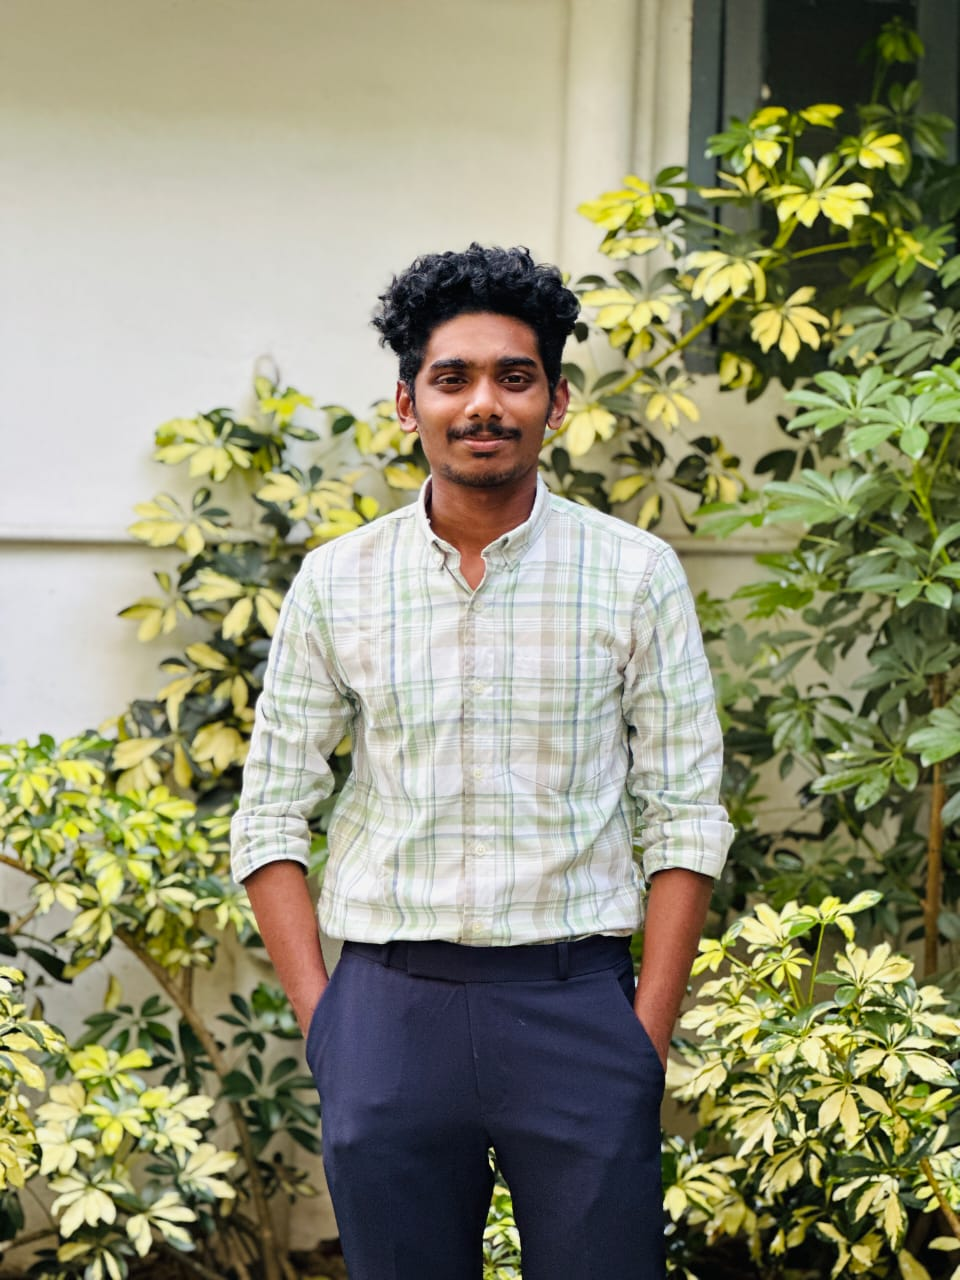
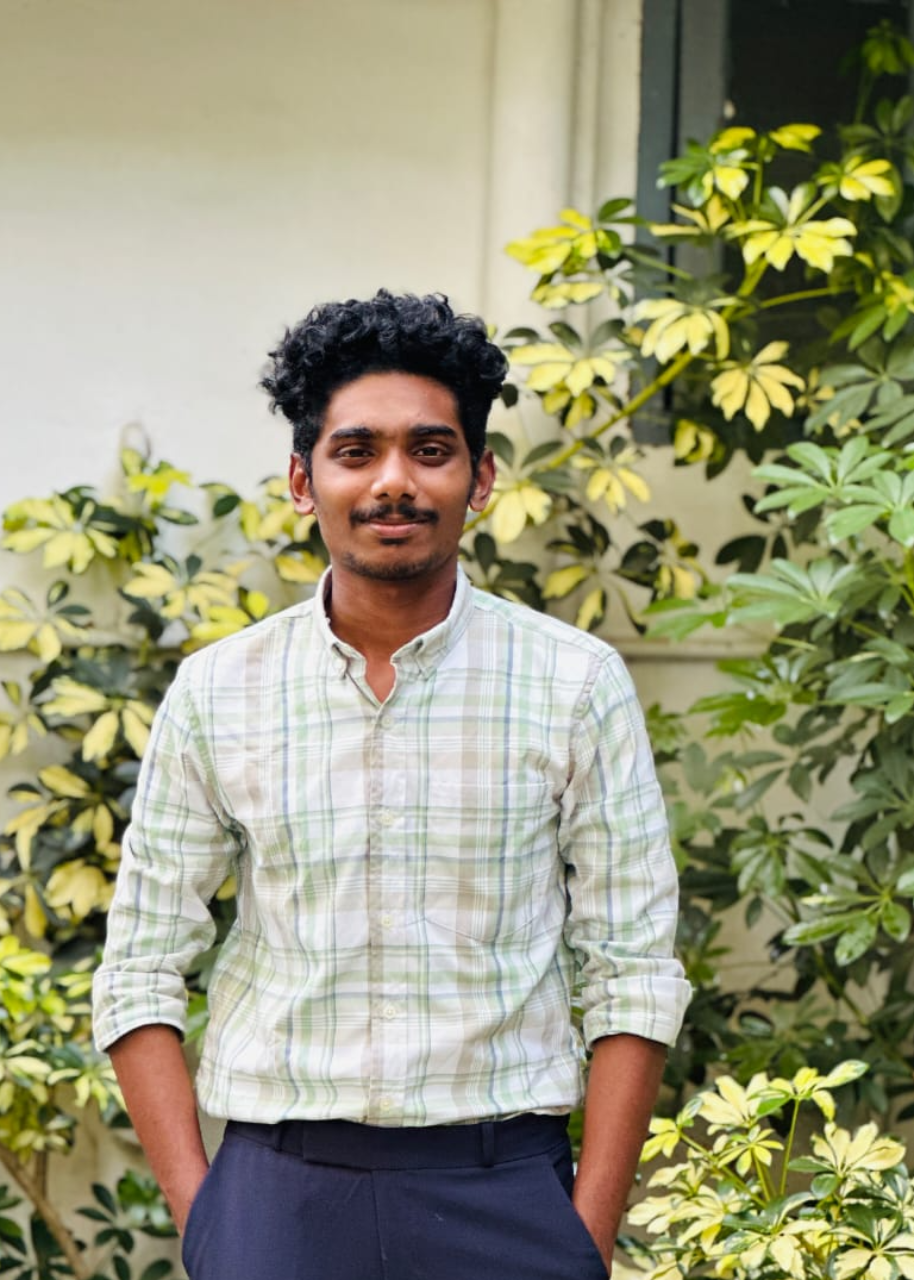
react-cropper added when profile edit

diff --git a/Frondend/src/Components/Doctor/DoctorProfile/profileedit.jsx b/Frondend/src/Components/Doctor/DoctorProfile/profileedit.jsx
@@ -6,11 +6,16 @@ import { faXmark } from "@fortawesome/free-solid-svg-icons";
 import { toast } from "sonner";
 import { profileEditDoctor } from "../../../Redux/Doctor/DoctorThunk";
 import { useDispatch, useSelector } from "react-redux";
+import { ImageCropper } from "../..";
+
 
 const Profileedit = ({ closeModal, doctorId }) => {
   const dispatch = useDispatch();
   const { doctorData } = useSelector((state) => state.doctor);
   const [profile, setProfile] = useState(false);
+
+
+
   const formik = useFormik({
     initialValues: {
       doctorname: doctorData.drname || "",
@@ -20,21 +25,16 @@ const Profileedit = ({ closeModal, doctorId }) => {
       doctorlocation: doctorData.location || "",
       doctorexperience: doctorData.experience || "",
       doctordescription: doctorData.about || "",
-      doctorprofile: doctorData.profileimage || null,
+      doctorprofile: null,
     },
     validationSchema: validationEditProfileSchema,
     onSubmit: async (values) => {
-      console.log("values", values);
       const formData = new FormData();
-      // if(profile){
       Object.keys(values).forEach((key) => {
         formData.append(key, values[key]);
       });
-      // }
       formData.append("doctorId", doctorId);
-      console.log("here is the formdata", doctorId);
-
-      await dispatch(profileEditDoctor({ formData, doctorId, toast }))
+      await dispatch(profileEditDoctor({ formData, values, toast }))
         .unwrap()
         .then(() => {
           toast.success("Profile updated successfully");
@@ -46,16 +46,28 @@ const Profileedit = ({ closeModal, doctorId }) => {
   const handleProfile = (event) => {
     const file = event.target.files[0];
     if (file.type === "image/jpeg") {
+      setProfile(file)
       const reader = new FileReader();
       reader.onload = () => {
         setProfile(reader.result);
-        formik.setFieldValue("doctorprofile", file);
       };
       reader.readAsDataURL(file);
     } else {
       toast.error("JPG image only support");
     }
   };
+
+  const handleCropcomplete = (croppedimage,originalFile) => {
+    const byteString = atob(croppedimage.split(',')[1])
+    const mimeString = croppedimage.split(',')[0].split(':')[1].split(';')[0]
+    const ab = new ArrayBuffer(byteString.length)
+    const ia = new Uint8Array(ab)
+    for (let i = 0; i < byteString.length; i++) {
+      ia[i] = byteString.charCodeAt(i);
+    }
+    const file = new File([ab], originalFile, { type: mimeString });
+    formik.setFieldValue("doctorprofile", file);
+  }
 
   return (
     <div className="fixed inset-0 bg-black bg-opacity-50 flex justify-center items-center z-50">
@@ -197,17 +209,13 @@ const Profileedit = ({ closeModal, doctorId }) => {
             <div className="certicate flex justify-center items-center ">
               {profile && (
                 <>
+                  <ImageCropper image={profile} onCropComplete={handleCropcomplete}  originalFileName={profile.name}/>
                   <FontAwesomeIcon
                     icon={faXmark}
                     className="w-2 h-2 bg-slate-400 rounded-full p-2 absolute cursor-pointer "
                     onClick={() => setProfile(false)}
                   />
 
-                  <img
-                    src={profile}
-                    alt="profile"
-                    className="m-5 w-[24%] h-[6rem] object-cover rounded-sm shadow-lg "
-                  />
                 </>
               )}
             </div>

diff --git a/Frondend/src/Redux/Doctor/DoctorSlice.jsx b/Frondend/src/Redux/Doctor/DoctorSlice.jsx
@@ -13,32 +13,52 @@ const INITIAL_STATE = {
 const doctorSlice = createSlice({
   name: "doctor",
   initialState: INITIAL_STATE,
-  reducers:{
-    docorLogout:(state) => {
-        state.doctorData = null;
-        state.doctorToken = null;
-        sessionStorage.removeItem("doctorData");
-        sessionStorage.removeItem("doctor-token");  
-    }
+  reducers: {
+    docorLogout: (state) => {
+      state.doctorData = null;
+      state.doctorToken = null;
+      sessionStorage.removeItem("doctorData");
+      sessionStorage.removeItem("doctor-token");
+    },
   },
   extraReducers: (builder) => {
     builder
-    .addCase(doctorLogin.fulfilled, (state, action) => {
-      const { doctorData, doctorToken } = action.payload;
-      state.doctorData = doctorData
-      state.doctorToken = doctorToken
-      sessionStorage.setItem("doctorData",JSON.stringify(doctorData))
-      sessionStorage.setItem("doctor-token",JSON.stringify(doctorToken))
-    })
-     .addCase(profileEditDoctor.fulfilled,(state,action)=>{
-      const updateData = action.payload
-      state.doctorData = {...state.doctorData , ...updateData}
-      console.log("checking the state is updtated or not ",state.doctorData)
-      state.editConfirm = true;
-      sessionStorage.setItem("doctorData",JSON.stringify(state.doctorData))
-     }) 
+      .addCase(doctorLogin.fulfilled, (state, action) => {
+        const { doctorData, doctorToken } = action.payload;
+        state.doctorData = doctorData;
+        state.doctorToken = doctorToken;
+        sessionStorage.setItem("doctorData", JSON.stringify(doctorData));
+        sessionStorage.setItem("doctor-token", JSON.stringify(doctorToken));
+      })
+      .addCase(profileEditDoctor.fulfilled, (state, action) => {
+        const { 
+          doctorprofile, 
+          doctorname, 
+          doctormobile, 
+          doctorstate, 
+          doctorcountry, 
+          doctorlocation, 
+          doctorexperience, 
+          doctordescription 
+        } = action.payload;
+    
+        if (doctorprofile) {
+          state.doctorData.profileimage = doctorprofile.name
+        }
+        Object.assign(state.doctorData,{
+          drname: doctorname,
+          drMobile: doctormobile,
+          state: doctorstate,
+          country: doctorcountry,
+          location: doctorlocation,
+          experience: doctorexperience,
+          about: doctordescription
+        })
+        state.editConfirm = true;
+        sessionStorage.setItem("doctorData", JSON.stringify(state.doctorData));
+      });
   },
 });
 
 export default doctorSlice.reducer;
-export const {docorLogout} = doctorSlice.actions
+export const { docorLogout } = doctorSlice.actions;

diff --git a/Frondend/src/Components/Doctor/DoctorProfile/Doctorprofile.jsx b/Frondend/src/Components/Doctor/DoctorProfile/Doctorprofile.jsx
@@ -5,7 +5,8 @@ import { useSelector } from "react-redux";
 const Doctorprofile = () => {
   const { doctorData } = useSelector((state) => state.doctor);
   const [isEdit, setIsedit] = useState(false);
-  console.log("getiigggg==={}",doctorData)
+
+  console.log("getting the ",doctorData)
   return (
     <>
       <DoctorNavbar />
@@ -20,13 +21,13 @@ const Doctorprofile = () => {
             <img
               src={`../src/assets/images/${doctorData.profileimage}`}
               alt="doctorprofileimage"
-              className="border-2 border-[#0f766e] rounded-sm   sm:w-[40%]  sm:rounded-md object-contain"
+              className="border-2 border-[#0f766e] rounded-sm   sm:w-[40%]  sm:rounded-md "
             />
 
             <div className="flex flex-col">
-              <div className="bg-white  shadow-md m-3 w-[80%] sm:w-[124%] rounded-xl flex flex-col justify-center items-center p-3 sm:p-2">
+              <div className="bg-white  shadow-md m-3 w-[80%] sm:w-[124%] rounded-xl flex flex-col justify-center items-center p-3">
                 <div className="flex gap-1">
-                  <h1 className=" text-black font-bold">{doctorData.drname}</h1>
+                  <h1 className=" text-black font-bold">{doctorData?.drname}</h1>
                   <h1 className=" text-black font-bold">
                     {doctorData.drdegree}
                   </h1>

diff --git a/Frondend/src/Components/Commen/Cropper/Cropper.jsx b/Frondend/src/Components/Commen/Cropper/Cropper.jsx
@@ -1,0 +1,44 @@
+  import React, { useRef, useState } from "react";
+  import Cropper from "react-cropper";
+  import "cropperjs/dist/cropper.css";
+
+  const ImageCroper = ({image,onCropComplete,originalFileName }) => {
+    const cropRef = useRef(null);
+    const [croppedImage, setCroppedImage] = useState(false);
+
+    const onCrop = () => {
+      const cropper = cropRef.current?.cropper
+      if(cropper){
+          const cropUrl = cropper.getCroppedCanvas({
+              width: 960,
+              height: 1280
+          }).toDataURL()
+          setCroppedImage(cropUrl)
+          onCropComplete(cropUrl,originalFileName)
+      }
+    }
+
+    return (
+      <div className="flex">
+        <Cropper
+          src={image}
+          style={{ height: 200, width: "200%" }}
+          initialAspectRatio={3 / 4}
+          guides={false}
+          ref={cropRef}
+          crop={onCrop}
+        />
+        {croppedImage && (
+          <div className="flex justify-center items-center">
+            <img
+              src={croppedImage}
+              alt="Cropped"
+              className="m-1 w-[245%] h-[6rem] object-cover rounded-sm shadow-lg"
+            />
+          </div>
+        )}
+      </div>
+    );
+  };
+
+  export default ImageCroper;

diff --git a/Frondend/src/Redux/Doctor/DoctorThunk.jsx b/Frondend/src/Redux/Doctor/DoctorThunk.jsx
@@ -36,7 +36,7 @@ export const doctorLogin = createAsyncThunk(
 
 export const profileEditDoctor = createAsyncThunk(
   "doctor/profileEditDoctor",
-  async ({ formData, toast }, { rejectWithValue }) => {
+  async ({ formData,values, toast }, { rejectWithValue }) => {
     try {
       const { data } = await doctor_Api.put(
         "/doctor/profile-edit-dr",
@@ -47,8 +47,7 @@ export const profileEditDoctor = createAsyncThunk(
           },
         }
       );
-      console.log("data is updated", data);
-      return data;
+      return  values  
     } catch (err) {
       toast.error("error in profile update");
       return rejectWithValue('error in profile update')

diff --git a/Backend/Controllers/Doctor/doctorController.js b/Backend/Controllers/Doctor/doctorController.js
@@ -140,11 +140,11 @@ const drProfileEdit = async (req, res) => {
       locationOfDoctor: doctorlocation,
       yearsOfExperience: doctorexperience,
       aboutOfDoctor: doctordescription,
-      ...(profilefile && { profileImageOfDoctor: profilefile.originalname }),
+      ...(profilefile && { profileImageOfDoctor: profilefile.filename }),
     };
-    const updateData = await Doctor.updateOne(
+    const updateData = await Doctor.findOneAndUpdate(
       { _id: doctorId },
-      doctorUpdateData
+      { $set: doctorUpdateData }
     );
     console.log("data is updated====", updateData);
     res.json(updateData);

diff --git a/Frondend/src/Components/index.js b/Frondend/src/Components/index.js
@@ -34,4 +34,5 @@ export {default as Warning} from "./Commen/Warning/Warning"
 export {default as BlockAlert} from "./Commen/BlockAlert/Blockalert"
 export {default as ShimmerEffect} from './Commen/Shimmer/Shimmer'
 export {default as CommenInput} from './Commen/InputFields/InputField'
+export {default as ImageCropper} from './Commen/Cropper/Cropper'
 /////////////////////////////////////////////////////////////////

diff --git a/Backend/Utils/multer.js b/Backend/Utils/multer.js
@@ -10,5 +10,11 @@ const storage = multer.diskStorage({
   },
 });
 
-const upload = multer({ storage: storage });
+
+
+const upload = multer({
+  storage: storage,
+  // limits: { fileSize: 5 * 1024 * 1024 },
+  // fileFilter: fileFilter,
+});
 module.exports = upload;

diff --git a/Frondend/src/App.css b/Frondend/src/App.css
@@ -7,6 +7,4 @@ body {
   overflow-x: hidden;
   margin: 0;
   padding: 0;
-
 }
-
